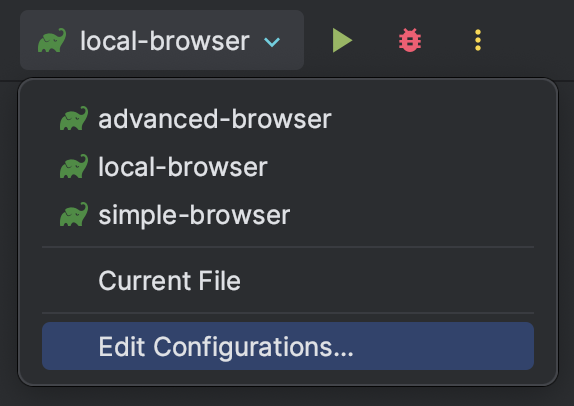
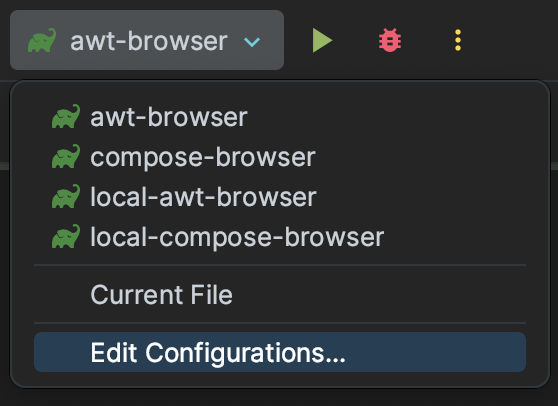
Update README.md

diff --git a/jcef/src/jvmMain/kotlin/me/manriif/jcef/Application.kt b/jcef/src/jvmMain/kotlin/me/manriif/jcef/Application.kt
@@ -1,0 +1,108 @@
+package me.manriif.jcef
+
+import androidx.compose.runtime.*
+import androidx.compose.ui.window.ApplicationScope
+import androidx.compose.ui.window.application
+import kotlin.system.exitProcess
+
+private val LocalApplicationDisposer = staticCompositionLocalOf<ApplicationDisposer> {
+    error("CompositionLocal LocalApplicationDisposer not found.")
+}
+
+/**
+ * Handler for exiting or restarting the application.
+ */
+interface ApplicationDisposer {
+
+    /**
+     * Exit the application.
+     * The resulting behavior will be the same as [ApplicationScope.exitApplication].
+     */
+    fun exit()
+
+    /**
+     * Restart the application.
+     * The resulting behavior will be the same as [ApplicationScope.exitApplication].
+     */
+    fun restart()
+
+    companion object {
+        val current: ApplicationDisposer
+            @Composable
+            @ReadOnlyComposable
+            get() = LocalApplicationDisposer.current
+    }
+}
+
+/**
+ * Application that inject [ApplicationDisposer] into composition, making it able to be restarted
+ * or exited from anywhere. [onExitProcess] will be invoked once on application exit only.
+ *
+ * @see application
+ */
+fun disposableApplication(
+    exitProcessOnExit: Boolean = true,
+    onExitProcess: (() -> Unit)? = null,
+    content: @Composable ApplicationScope.() -> Unit
+) {
+    var restartApplication = true
+
+    while (restartApplication) {
+        restartApplication = newApplication(content)
+    }
+
+    if (exitProcessOnExit) {
+        onExitProcess?.invoke()
+        exitProcess(0)
+    }
+}
+
+/**
+ * This method returns true if the application should be restarted after a call to
+ * [ApplicationDisposer.restart].
+ *
+ * @see application
+ */
+private fun newApplication(content: @Composable ApplicationScope.() -> Unit): Boolean {
+    var shouldRestart = false
+
+    application(exitProcessOnExit = false) {
+        val applicationDisposer = remember(this) {
+            ApplicationDisposerImpl { restart ->
+                shouldRestart = restart
+                exitApplication()
+            }
+        }
+
+        CompositionLocalProvider(LocalApplicationDisposer provides applicationDisposer) {
+            val disposer = LocalApplicationDisposer.current
+
+            val disposerApplicationScope = remember(disposer) {
+                object : ApplicationScope {
+                    override fun exitApplication() = disposer.exit()
+                }
+            }
+
+            disposerApplicationScope.content()
+        }
+    }
+
+    return shouldRestart
+}
+
+private class ApplicationDisposerImpl(private val onExit: (restart: Boolean) -> Unit) :
+    ApplicationDisposer {
+
+    @Volatile
+    private var isAlive = true
+
+    override fun exit() = exitApplication(false)
+
+    override fun restart() = exitApplication(true)
+
+    private fun exitApplication(restart: Boolean) {
+        check(isAlive) { "Application is no longer alive." }
+        isAlive = false
+        onExit(restart)
+    }
+}

diff --git a/example/src/jvmMain/kotlin/me/manriif/example/Application.kt b/example/src/jvmMain/kotlin/me/manriif/example/Application.kt
@@ -12,62 +12,20 @@ import androidx.compose.ui.Alignment
 import androidx.compose.ui.Modifier
 import androidx.compose.ui.unit.dp
 import androidx.compose.ui.window.FrameWindowScope
-import androidx.compose.ui.window.Window
-import androidx.compose.ui.window.application
 import me.friwi.jcefmaven.EnumProgress
-import me.manriif.jcef.ApplicationRestartRequiredException
-import me.manriif.jcef.BrowserInitState
-import me.manriif.jcef.Cef
+import me.manriif.jcef.*
 
 const val PROJECT_GITHUB_PAGE = "https://github.com/Manriif/jcef-compose"
-
-private fun interface ApplicationRestarter {
-    fun restart()
-}
-
-private val LocalApplicationRestarter = staticCompositionLocalOf<ApplicationRestarter> {
-    error("CompositionLocal LocalApplicationRestarter not found.")
-}
 
 fun cefApplication(
     title: State<String>,
     content: @Composable FrameWindowScope.() -> Unit
+) = disposableSingleWindowApplication(
+    title = title.value,
+    onExitProcess = Cef::dispose
 ) {
-    var restart = true
-
-    while (restart) {
-        restart = newApplication(title, content)
-    }
-
-    Cef.dispose()
-}
-
-private fun newApplication(
-    title: State<String>,
-    content: @Composable FrameWindowScope.() -> Unit
-): Boolean {
-    var shouldRestart = false
-
-    application(exitProcessOnExit = false) {
-        val restarter = remember(this) {
-            ApplicationRestarter {
-                shouldRestart = true
-                exitApplication()
-            }
-        }
-
-        CompositionLocalProvider(LocalApplicationRestarter provides restarter) {
-            Window(
-                onCloseRequest = this::exitApplication,
-                title = title.value,
-            ) {
-                Cef.initAsync() // https://github.com/JetBrains/compose-multiplatform/issues/2939
-                content()
-            }
-        }
-    }
-
-    return shouldRestart
+    Cef.initAsync() // https://github.com/JetBrains/compose-multiplatform/issues/2939
+    content()
 }
 
 /**
@@ -122,11 +80,11 @@ fun CefInitErrorContent(throwable: Throwable) {
             Text(text = throwable.message ?: "Failed to init cef.")
 
             if (throwable is ApplicationRestartRequiredException) {
-                val applicationRestarter = LocalApplicationRestarter.current
+                val applicationDisposer = ApplicationDisposer.current
 
                 Button(
                     modifier = Modifier.padding(top = 16.0.dp),
-                    onClick = { applicationRestarter.restart() }
+                    onClick = { applicationDisposer.restart() }
                 ) {
                     Text("Restart")
                 }

diff --git a/jcef/src/jvmMain/kotlin/me/manriif/jcef/Window.kt b/jcef/src/jvmMain/kotlin/me/manriif/jcef/Window.kt
@@ -1,0 +1,43 @@
+package me.manriif.jcef
+
+import androidx.compose.runtime.Composable
+import androidx.compose.ui.graphics.painter.Painter
+import androidx.compose.ui.input.key.KeyEvent
+import androidx.compose.ui.window.FrameWindowScope
+import androidx.compose.ui.window.Window
+import androidx.compose.ui.window.WindowState
+
+fun disposableSingleWindowApplication(
+    state: WindowState = WindowState(),
+    visible: Boolean = true,
+    title: String = "Untitled",
+    icon: Painter? = null,
+    undecorated: Boolean = false,
+    transparent: Boolean = false,
+    resizable: Boolean = true,
+    enabled: Boolean = true,
+    focusable: Boolean = true,
+    alwaysOnTop: Boolean = false,
+    onPreviewKeyEvent: (KeyEvent) -> Boolean = { false },
+    onKeyEvent: (KeyEvent) -> Boolean = { false },
+    exitProcessOnExit: Boolean = true,
+    onExitProcess: () -> Unit = { Cef.dispose() },
+    content: @Composable FrameWindowScope.() -> Unit
+) = disposableApplication(exitProcessOnExit, onExitProcess) {
+    Window(
+        onCloseRequest = this::exitApplication,
+        state = state,
+        visible = visible,
+        title = title,
+        icon = icon,
+        undecorated = undecorated,
+        transparent = transparent,
+        resizable = resizable,
+        enabled = enabled,
+        focusable = focusable,
+        alwaysOnTop = alwaysOnTop,
+        onPreviewKeyEvent = onPreviewKeyEvent,
+        onKeyEvent = onKeyEvent,
+        content = content,
+    )
+}

diff --git a/jcef/src/jvmMain/kotlin/me/manriif/jcef/Cef.kt b/jcef/src/jvmMain/kotlin/me/manriif/jcef/Cef.kt
@@ -166,14 +166,14 @@ object Cef {
      *  in [CefApp.N_Initialize].
      *  As a result, an [ApplicationRestartRequiredException] will be thrown on each call
      *  to [newClient].
-     *  Application restart can be achieved in [onRestartRequest].
+     *  Application restart can be achieved in [onRestartRequired].
      *
      * @throws IllegalStateException if [dispose] was called
      */
     @Throws(IllegalStateException::class)
     fun initAsync(
         onError: ((Throwable) -> Unit)? = null,
-        onRestartRequest: (() -> Unit)? = null
+        onRestartRequired: (() -> Unit)? = null
     ) {
         val installDir = this.installDir
         val builder = getInitBuilder(installDir) ?: return
@@ -200,7 +200,7 @@ object Cef {
                 val exception = ApplicationRestartRequiredException("Application needs to restart.")
 
                 setInitResult(Result.failure(exception))
-                onRestartRequest?.invoke()
+                onRestartRequired?.invoke()
             }
         }
     }

diff --git a/README.md b/README.md
@@ -2,10 +2,17 @@
 [![License](https://img.shields.io/badge/License-Apache_2.0-blue.svg)](https://opensource.org/licenses/Apache-2.0)
 # jcef-compose
 
-Jcef-compose is a small API that offers the ability to embed a [CEF Browser](https://github.com/chromiumembedded/java-cef) as a [Composable](https://github.com/JetBrains/compose-multiplatform/blob/master/README.md?plain=1) targeting jvm.
-The project was born because of [Swing interoperability](https://github.com/JetBrains/compose-multiplatform/tree/master/tutorials/Swing_Integration) limitations. 
-Indeed, it is currently not possible to compose on top of a swing component ([#1521](https://github.com/JetBrains/compose-multiplatform/issues/1521), [#2926](https://github.com/JetBrains/compose-multiplatform/issues/2926)). 
-Despite the fact that the OSR renderer does not highlight the power of CEF, this API should do the trick until the JetBrains team and other compose contributors provide an answer to this interoperability issue (they will, sure). In which case CEF windowed rendering will be preferable.
+Jcef-compose is a small API targeting jvm that offers the ability to embed a [CEF Browser](https://github.com/chromiumembedded/java-cef) as a [Composable](https://github.com/JetBrains/compose-multiplatform/blob/master/README.md?plain=1).
+The project was born because of [Swing interoperability](https://github.com/JetBrains/compose-multiplatform/tree/master/tutorials/Swing_Integration) limitations; indeed, it is currently not possible to compose on top of a swing component ([#1521](https://github.com/JetBrains/compose-multiplatform/issues/1521), [#2926](https://github.com/JetBrains/compose-multiplatform/issues/2926)).
+
+Initially, the goal was to take advantage of the CEF OSR feature to render in Canvas
+like in [this experimental project](https://github.com/JetBrains/compose-multiplatform/tree/d44114d8b92669d1a15c1e979b91d221fa5253f3/experimental/cef/src/main/kotlin/org/jetbrains/compose/desktop/browser),
+but the performance was not up to par.\
+Ultimately, the project focuses on making it easy to integrate JCEF into a new or existing application using [jcefmaven](https://github.com/jcefmaven/jcefmaven#readme)
+while providing a lightweight and robust API.
+
+Waiting for the JetBrains team and other compose contributors to provide an answer to Swing interoperability issue(s)
+(they will, sure).
 
 ## Requirements
 
@@ -13,7 +20,7 @@ Despite the fact that the OSR renderer does not highlight the power of CEF, this
 
 ## Supported platforms
 
-* Windows, arm64 not supported
+* Windows, OSR is not supported on arm64
 * macOS
 * Linux
 
@@ -27,32 +34,47 @@ Synchronous [`Cef`](jcef/src/jvmMain/kotlin/me/manriif/jcef/Cef.kt) initializati
 
 ```kotlin
 fun main() {
-    Cef.initSync() // Will block the current thread and download the native bundle
+    // https://github.com/JetBrains/compose-multiplatform/issues/2939
+    // The issue above will affect the window resizing and closing
+    Cef.initSync()
 
-    application {
-        Window(
-            title = remember { "Jcef compose" },
-            onCloseRequest = {
-                Cef.dispose() // dispose Cef
-                exitApplication()
-            }
-        ) {
-            CefBrowserCompose(
-                url = remember { "https://github.com/Manriif/jcef-compose" },
-                window = window,
-                onClientAvailable = { cefClient ->
-                    configureClient(cefClient)
-                },
-                onBrowserAvailable = { cefBrowser ->
-                    configureBrowser(cefBrowser)
-                }
-            )
-        }
+    singleWindowApplication(
+        title = "CEF Compose Browser",
+        exitProcessOnExit = false
+    ) {
+        CefBrowserCompose(
+            url = remember { "https://github.com/Manriif/jcef-compose" },
+            window = window,
+            initContent = { CefInitProgressContent(it) },
+            errorContent = { CefInitErrorContent(it) }
+        )
     }
+
+    Cef.dispose()
+    exitProcess(0)
 }
 ```
 
-For
+Asynchronous [`Cef`](jcef/src/jvmMain/kotlin/me/manriif/jcef/Cef.kt) initialization example:
+
+```kotlin
+fun main() = disposableSingleWindowApplication(
+    title = "CEF Awt Browser",
+    onExitProcess = Cef::dispose
+) {
+    val applicationDisposer = ApplicationDisposer.current
+
+    // https://github.com/JetBrains/compose-multiplatform/issues/2939
+    // Initializing asynchronously here fix the issue above without blocking the main thread
+    Cef.initAsync(onRestartRequired = applicationDisposer::restart)
+
+    CefBrowserAwt(
+        url = remember { "https://github.com/Manriif/jcef-compose" },
+        initContent = { CefInitProgressContent(it) },
+        errorContent = { CefInitErrorContent(it) }
+    )
+}
+```
 
 Ready to run examples are available [here](example/src/jvmMain/kotlin/me/manriif/example).\
 These examples can be run on IntelliJ through run configurations.
